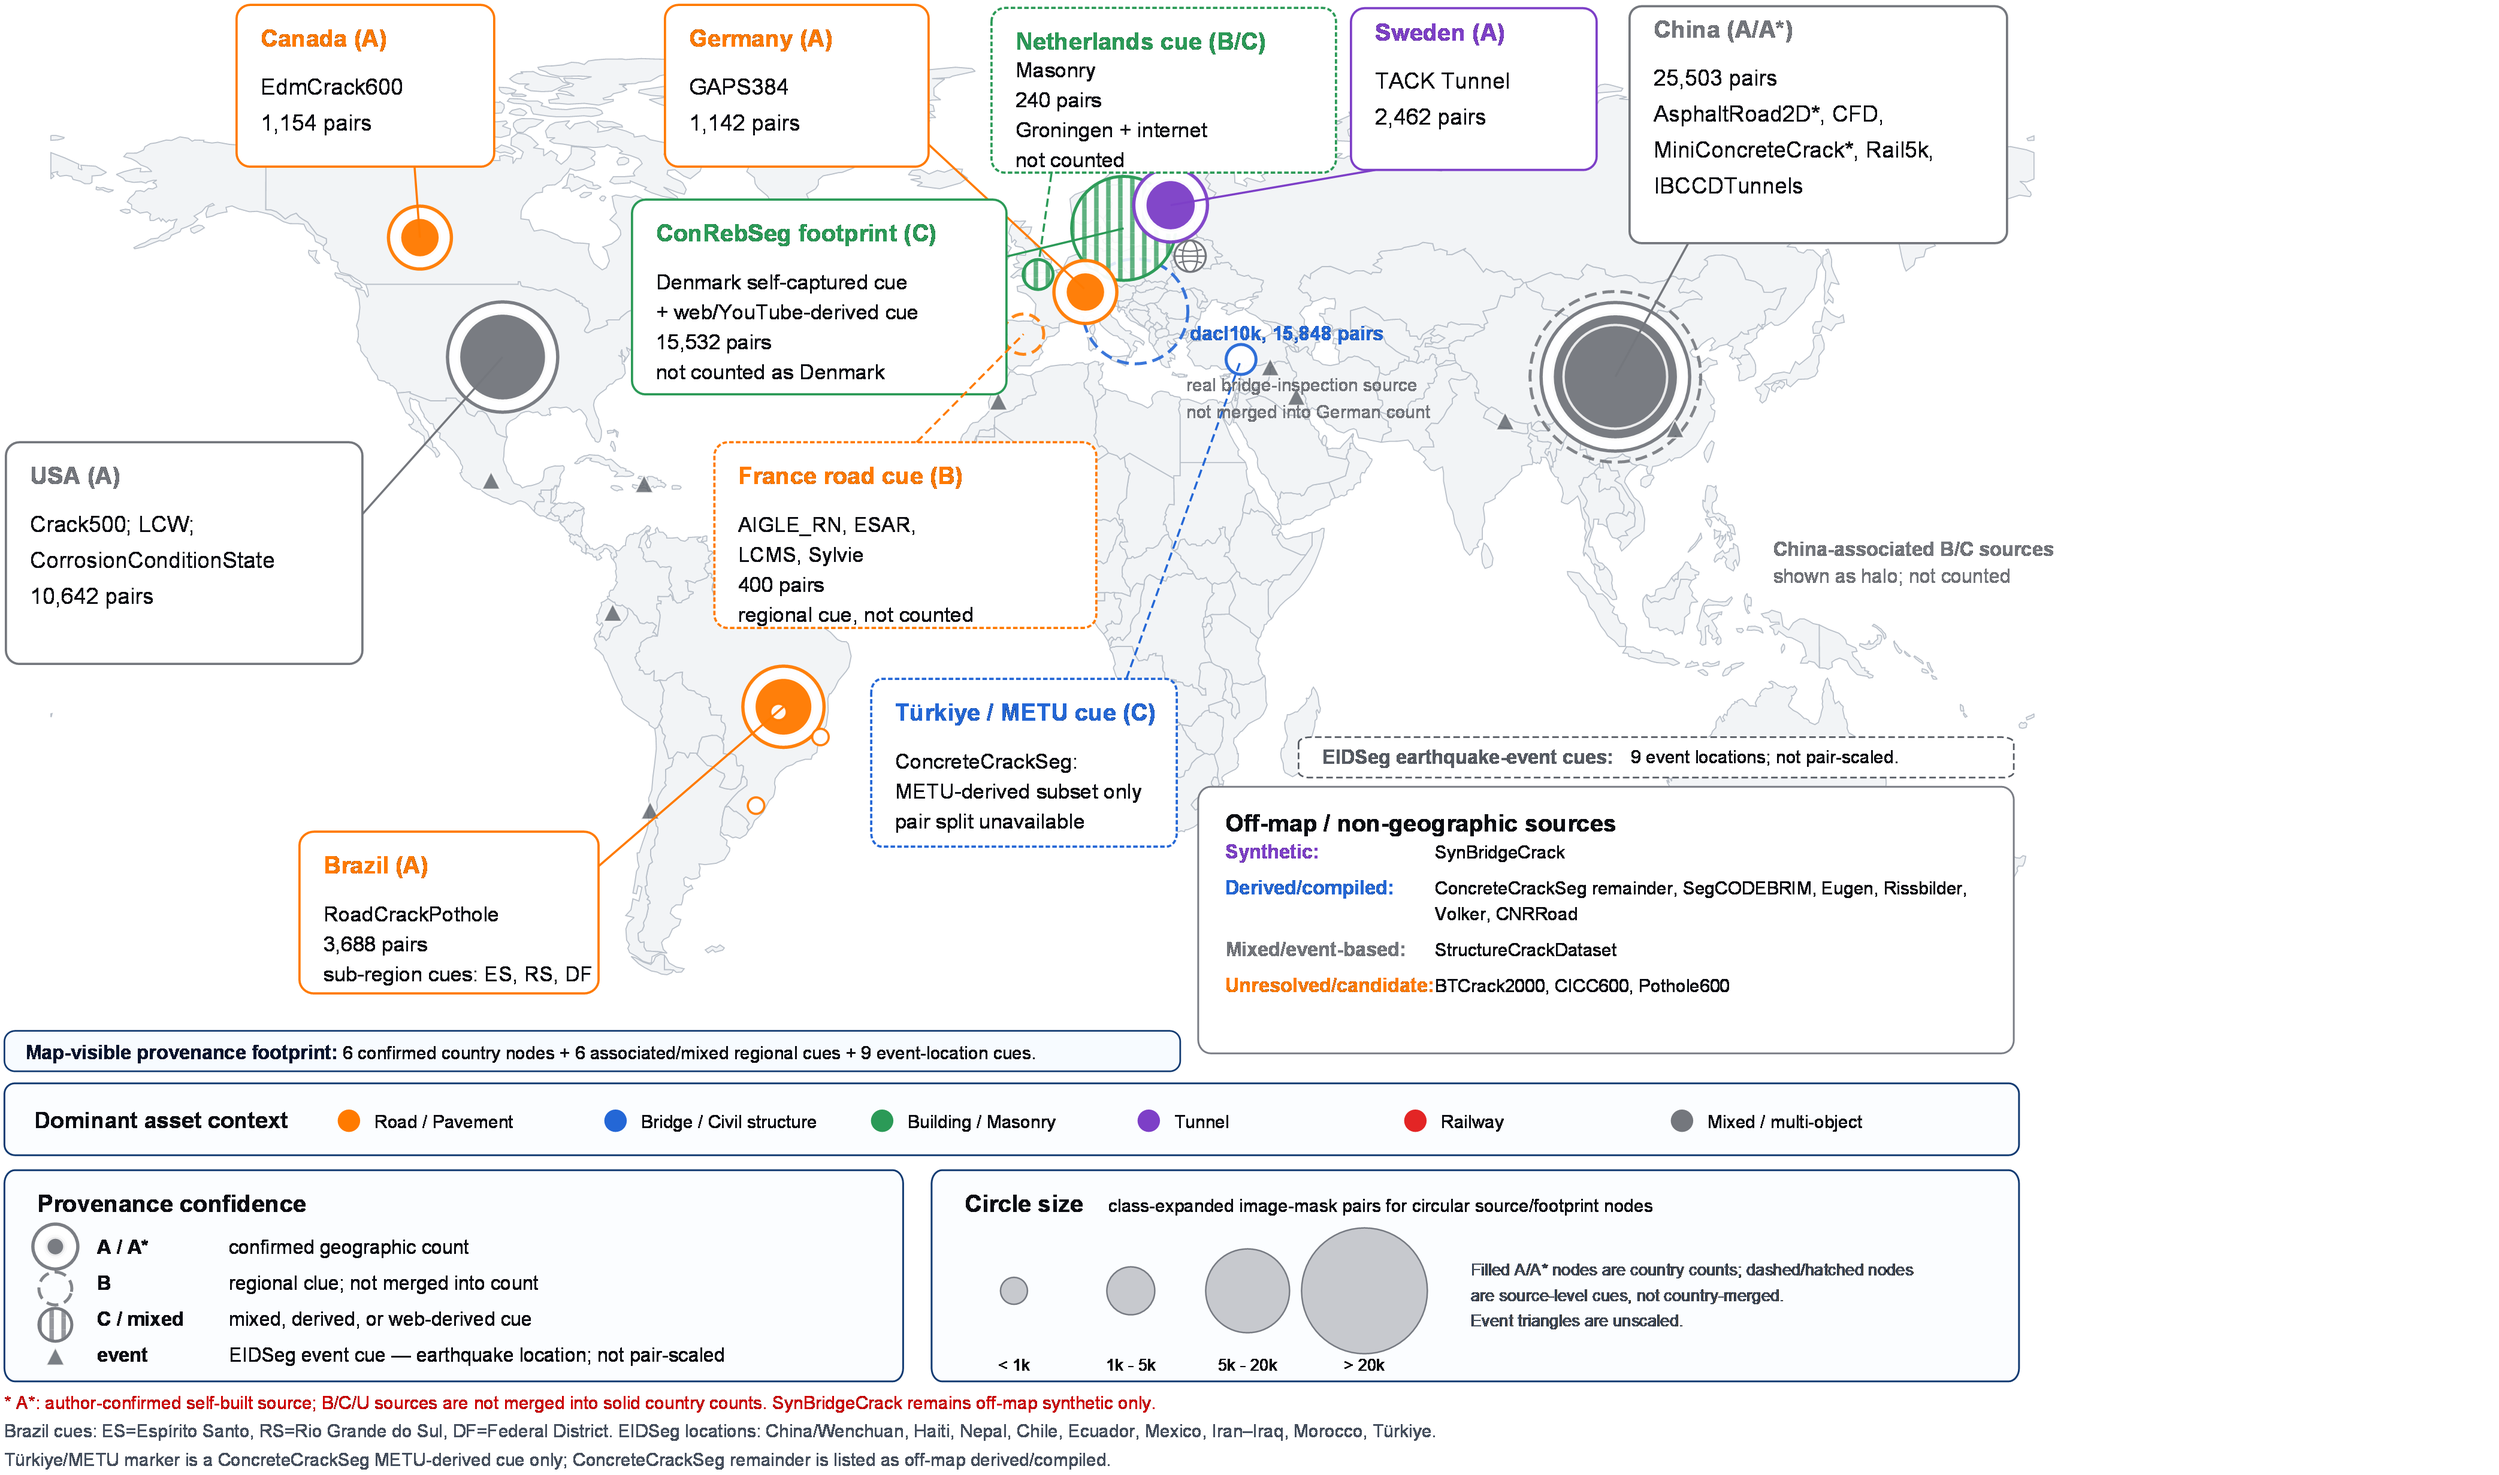
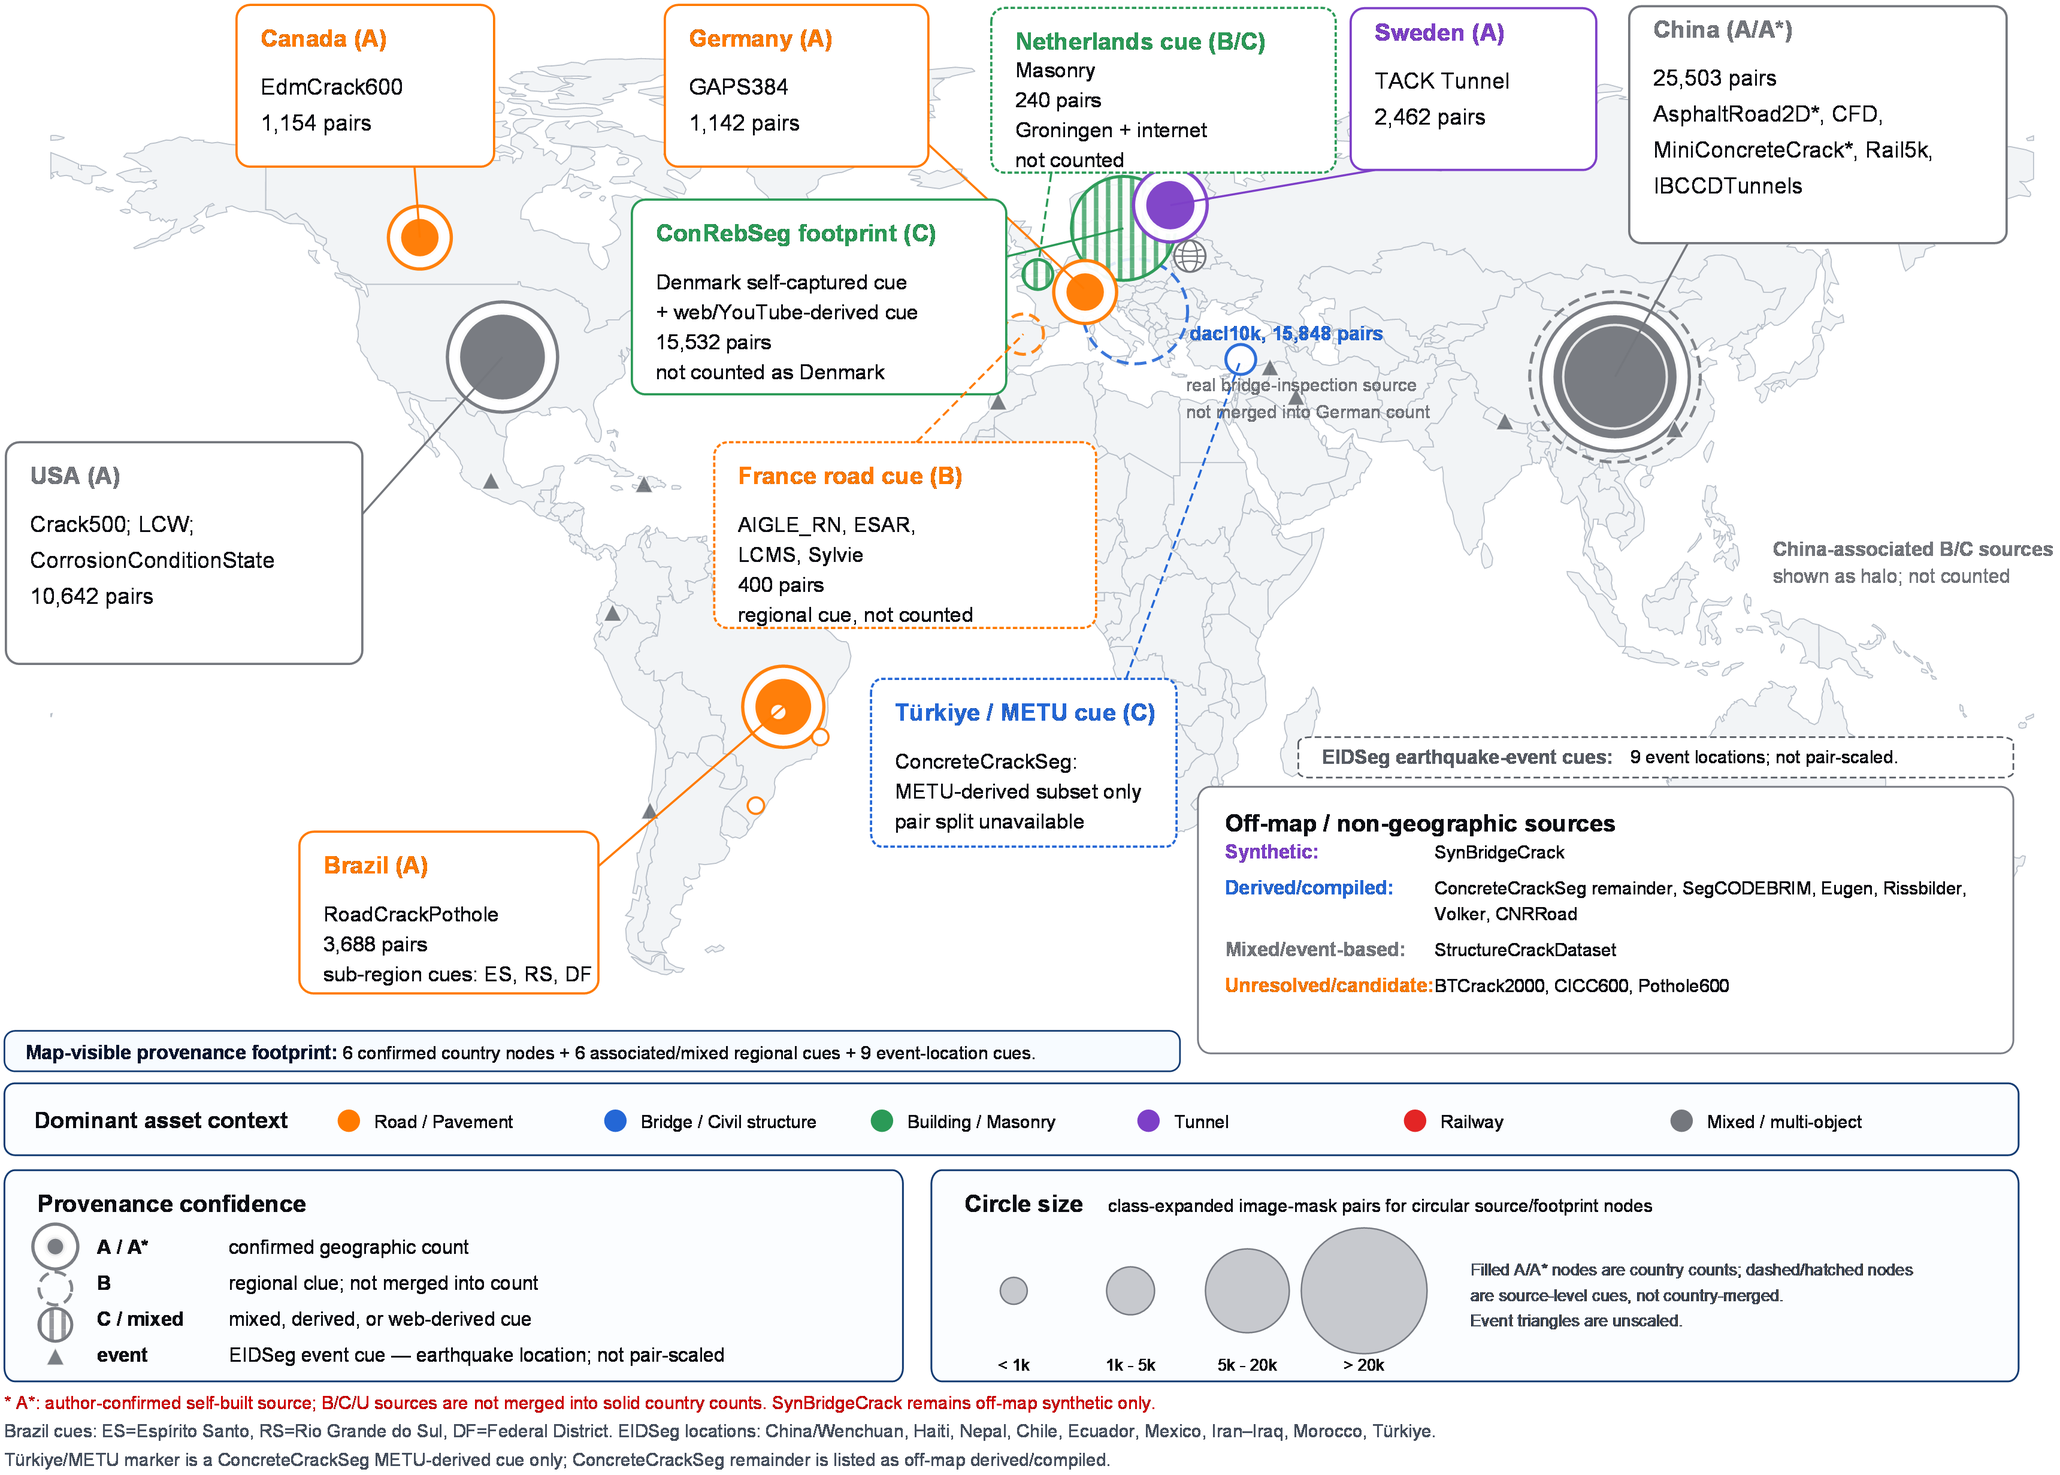
Streamline README figures

diff --git a/README.md b/README.md
@@ -35,24 +35,31 @@ end-to-end scripts for training, evaluation, and prediction.
 ## Overview
 
 <p align="center">
-  <img src="assets/overview.png" alt="Overview of InfraSegDB and InfraSegFM" width="100%">
+  <a href="assets/overview.png">
+    <img src="assets/overview.png" alt="Overview of InfraSegDB and InfraSegFM" width="100%">
+  </a>
 </p>
 
 InfraSegFM is evaluated in the manuscript on InfraSegDB, a 179,094 image-mask
 benchmark curated from 40 datasets and six acquisition platforms. The public
 repository includes a synthetic mini benchmark for software verification; the
 full InfraSegDB benchmark is not bundled in this release.
+Click a figure to open the full-resolution image.
 
 **Source provenance footprint**
 
 <p align="center">
-  <img src="assets/source_map.png" alt="Evidence-aware source provenance footprint of InfraSegDB" width="100%">
+  <a href="assets/source_map.png">
+    <img src="assets/source_map.png" alt="Evidence-aware source provenance footprint of InfraSegDB" width="100%">
+  </a>
 </p>
 
 **Benchmark taxonomy and composition**
 
 <p align="center">
-  <img src="assets/infrasegdb_taxonomy.png" alt="InfraSegDB taxonomy and benchmark statistics" width="100%">
+  <a href="assets/infrasegdb_taxonomy.png">
+    <img src="assets/infrasegdb_taxonomy.png" alt="InfraSegDB taxonomy and benchmark statistics" width="100%">
+  </a>
 </p>
 
 ## Results
@@ -66,41 +73,15 @@ Headline Dice scores reported in the manuscript:
 | CrossTask zero-shot | 0.5955 | New task and appearance distributions |
 | RealWorld zero-shot | 0.5420 | Field-like noise, clutter, and degradation |
 
-**In-distribution benchmark**
-
-<p align="center">
-  <img src="assets/id_benchmark.png" alt="In-distribution benchmark results" width="100%">
-</p>
-
-**CrossSite transfer**
-
-<p align="center">
-  <img src="assets/crosssite_results.png" alt="CrossSite OOD results" width="100%">
-</p>
-
-**CrossTask transfer**
-
-<p align="center">
-  <img src="assets/crosstask_results.png" alt="CrossTask OOD results" width="100%">
-</p>
-
-**RealWorld evaluation**
-
-<p align="center">
-  <img src="assets/realworld_results.png" alt="RealWorld OOD results" width="100%">
-</p>
-
-**Qualitative RealWorld comparison**
-
-<p align="center">
-  <img src="assets/realworld_qualitative.png" alt="RealWorld qualitative comparison" width="100%">
-</p>
+Detailed experimental plots and qualitative comparisons are reported in the
+manuscript. The README keeps the result summary compact so the release page
+stays readable.
 
 ## Release Contents
 
 ```text
 InfraSegFM/
-  assets/                         # README figures from the manuscript
+  assets/                         # selected manuscript figures
   checkpoints/
     infrasegfm_vit_b.pth          # InfraSegFM ViT-B release checkpoint
     manifest.json                 # size and SHA256 hash for the release checkpoint
